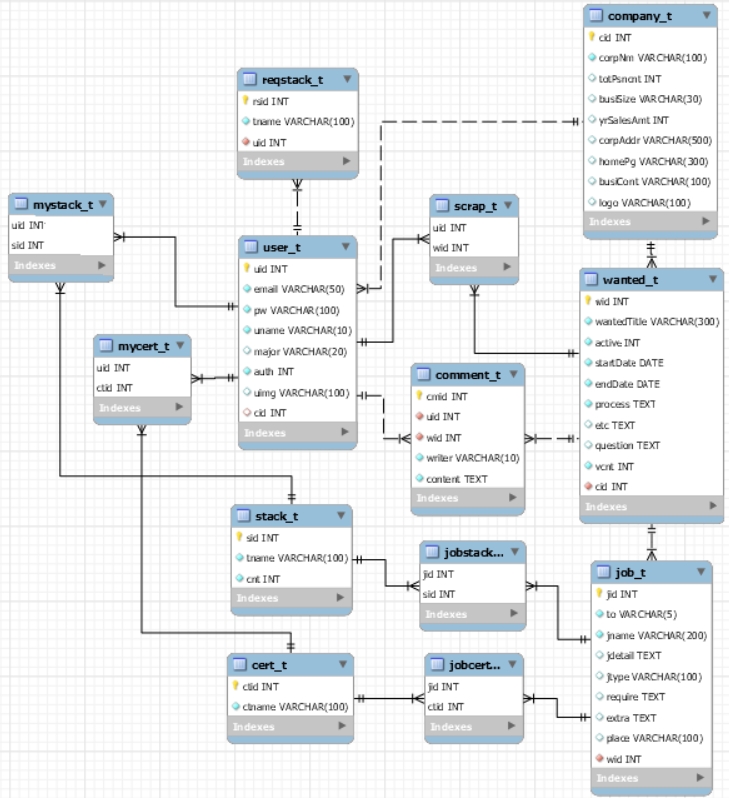
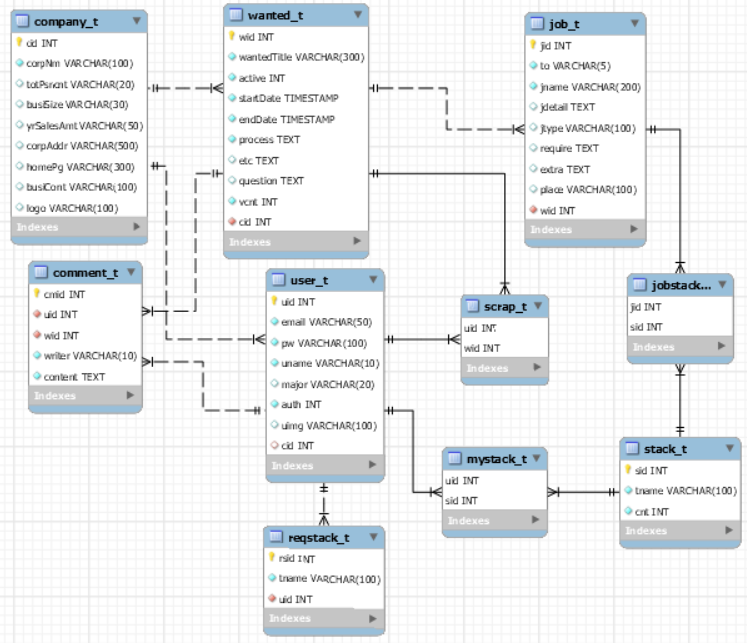
update README(Database) | update 공고상세보기

diff --git a/Backend/itda_test/src/main/java/com/ssafy/itda/itda_test/controller/WantedController.java b/Backend/itda_test/src/main/java/com/ssafy/itda/itda_test/controller/WantedController.java
@@ -54,14 +54,13 @@ public class WantedController {
 		logger.info("5-------------getWantedAll-----------------------------" + new Date());
 		Map<String, Object> resultMap = new HashMap<>();
 		String token = req.getHeader("jwt-auth-token");
-		if(token != null) {
+		if (token != null) {
 			resultMap.putAll(jwtService.get(req.getHeader("jwt-auth-token")));
 			int uid = (int) resultMap.get("uid");
 			List<Integer> widList = wantedService.getWantedAll();
 			List<WantedResult> wrlist = getWantedListFunction(widList, uid);
 			return new ResponseEntity<List<WantedResult>>(wrlist, HttpStatus.OK);
-		}
-		else {
+		} else {
 			List<Integer> widList = wantedService.getWantedAll();
 			List<WantedResult> wrlist = getWantedListFunction(widList);
 			return new ResponseEntity<List<WantedResult>>(wrlist, HttpStatus.OK);
@@ -70,20 +69,52 @@ public class WantedController {
 
 	@ApiOperation(value = " 공고 정보를 확인한다.", response = WantedResult.class)
 	@RequestMapping(value = "/getWantedByID/{wid}", method = RequestMethod.GET)
-	public ResponseEntity<WantedResult> getWantedByID(@PathVariable int wid) throws Exception {
+	public ResponseEntity<WantedResult> getWantedByID(@PathVariable int wid, HttpServletRequest req) throws Exception {
 		logger.info("5-------------getWantedByID-----------------------------" + new Date());
-		int cid = wantedService.getCompanyId(wid);
-		Company company = wantedService.getCompanyInfo(cid);
-		Wanted wanted = wantedService.getWantedInfo(wid);
-		List<Job> jobs = wantedService.getJobsInfo(wid);
+		Map<String, Object> resultMap = new HashMap<>();
+		String token = req.getHeader("jwt-auth-token");
 		WantedResult wr = new WantedResult();
-		wr.setCompany(company);
-		wr.setWanted(wanted);
-		wr.setJobs(jobs);
-		
-		//vcnt 조회수 update
+		if (token != null) {
+			resultMap.putAll(jwtService.get(req.getHeader("jwt-auth-token")));
+			int uid = (int) resultMap.get("uid");
+			int cid = wantedService.getCompanyId(wid);
+			Company company = wantedService.getCompanyInfo(cid);
+			Wanted wanted = wantedService.getWantedInfo(wid);
+			List<Job> jobs = wantedService.getJobsInfo(wid);
+			List<Stack> wantedStacks = wantedService.getWantedStackInfo(wid);
+			for (Job j : jobs) {
+				j.setStacks(wantedService.getStackInfo(j.getJid()));
+			}
+			Scrap model = new Scrap();
+			model.setUid(uid);
+			model.setWid(wid);
+			Scrap scrap = wantedService.isScraped(model);
+			wr.setCompany(company);
+			wr.setWanted(wanted);
+			wr.setJobs(jobs);
+			wr.setStacks(wantedStacks);
+			if (scrap == null) {
+				wr.setScrap(false);
+			} else {
+				wr.setScrap(true);
+			}
+		} else {
+			int cid = wantedService.getCompanyId(wid);
+			Company company = wantedService.getCompanyInfo(cid);
+			Wanted wanted = wantedService.getWantedInfo(wid);
+			List<Job> jobs = wantedService.getJobsInfo(wid);
+			List<Stack> wantedStacks = wantedService.getWantedStackInfo(wid);
+			for (Job j : jobs) {
+				j.setStacks(wantedService.getStackInfo(j.getJid()));
+			}
+			wr.setCompany(company);
+			wr.setWanted(wanted);
+			wr.setJobs(jobs);
+			wr.setStacks(wantedStacks);
+		}
+		// vcnt 조회수 update
 		wantedService.updateVcnt(wid);
-		
+
 		return new ResponseEntity<WantedResult>(wr, HttpStatus.OK);
 	}
 
@@ -93,14 +124,13 @@ public class WantedController {
 		logger.info("5-------------getWantedByRecent-----------------------------" + new Date());
 		Map<String, Object> resultMap = new HashMap<>();
 		String token = req.getHeader("jwt-auth-token");
-		if(token != null) {
+		if (token != null) {
 			resultMap.putAll(jwtService.get(req.getHeader("jwt-auth-token")));
 			int uid = (int) resultMap.get("uid");
 			List<Integer> widList = wantedService.getWantedByRecent();
 			List<WantedResult> wrlist = getWantedListFunction(widList, uid);
 			return new ResponseEntity<List<WantedResult>>(wrlist, HttpStatus.OK);
-		}
-		else {
+		} else {
 			List<Integer> widList = wantedService.getWantedByRecent();
 			List<WantedResult> wrlist = getWantedListFunction(widList);
 			return new ResponseEntity<List<WantedResult>>(wrlist, HttpStatus.OK);
@@ -113,14 +143,13 @@ public class WantedController {
 		logger.info("5-------------getWantedByCloseEnd-----------------------------" + new Date());
 		Map<String, Object> resultMap = new HashMap<>();
 		String token = req.getHeader("jwt-auth-token");
-		if(token != null) {
+		if (token != null) {
 			resultMap.putAll(jwtService.get(req.getHeader("jwt-auth-token")));
 			int uid = (int) resultMap.get("uid");
 			List<Integer> widList = wantedService.getWantedByCloseEnd();
 			List<WantedResult> wrlist = getWantedListFunction(widList, uid);
 			return new ResponseEntity<List<WantedResult>>(wrlist, HttpStatus.OK);
-		}
-		else {
+		} else {
 			List<Integer> widList = wantedService.getWantedByCloseEnd();
 			List<WantedResult> wrlist = getWantedListFunction(widList);
 			return new ResponseEntity<List<WantedResult>>(wrlist, HttpStatus.OK);
@@ -133,14 +162,13 @@ public class WantedController {
 		logger.info("5-------------getWantedByView-----------------------------" + new Date());
 		Map<String, Object> resultMap = new HashMap<>();
 		String token = req.getHeader("jwt-auth-token");
-		if(token != null) {
+		if (token != null) {
 			resultMap.putAll(jwtService.get(req.getHeader("jwt-auth-token")));
 			int uid = (int) resultMap.get("uid");
 			List<Integer> widList = wantedService.getWantedByView();
 			List<WantedResult> wrlist = getWantedListFunction(widList, uid);
 			return new ResponseEntity<List<WantedResult>>(wrlist, HttpStatus.OK);
-		}
-		else {
+		} else {
 			List<Integer> widList = wantedService.getWantedByView();
 			List<WantedResult> wrlist = getWantedListFunction(widList);
 			return new ResponseEntity<List<WantedResult>>(wrlist, HttpStatus.OK);
@@ -153,36 +181,34 @@ public class WantedController {
 		logger.info("5-------------getWantedByStack-----------------------------" + new Date());
 		Map<String, Object> resultMap = new HashMap<>();
 		String token = req.getHeader("jwt-auth-token");
-		if(token != null) {
+		if (token != null) {
 			resultMap.putAll(jwtService.get(req.getHeader("jwt-auth-token")));
 			int uid = (int) resultMap.get("uid");
 			List<Integer> widList = wantedService.getWantedByStack(uid);
 			List<WantedResult> wrlist = getWantedListFunction(widList, uid);
 			return new ResponseEntity<List<WantedResult>>(wrlist, HttpStatus.OK);
-		}
-		else {
+		} else {
 			return new ResponseEntity(HttpStatus.NO_CONTENT);
 		}
 	}
-	
+
 	@ApiOperation(value = "내 스크랩 공고에 맞는 공고 정보를 확인한다.", response = List.class)
 	@RequestMapping(value = "/getWantedByScrap", method = RequestMethod.GET)
 	public ResponseEntity<List<WantedResult>> getWantedByScrap(HttpServletRequest req) throws Exception {
 		logger.info("5-------------getWantedByScrap-----------------------------" + new Date());
 		Map<String, Object> resultMap = new HashMap<>();
 		String token = req.getHeader("jwt-auth-token");
-		if(token != null) {
+		if (token != null) {
 			resultMap.putAll(jwtService.get(req.getHeader("jwt-auth-token")));
 			int uid = (int) resultMap.get("uid");
 			List<Integer> widList = wantedService.getWantedByScrap(uid);
 			List<WantedResult> wrlist = getWantedListFunction(widList, uid);
 			return new ResponseEntity<List<WantedResult>>(wrlist, HttpStatus.OK);
-		}
-		else {
+		} else {
 			return new ResponseEntity(HttpStatus.NO_CONTENT);
 		}
 	}
-	
+
 	@ApiOperation(value = "사용자가 공고를 스크랩한다.", response = Result.class)
 	@RequestMapping(value = "/scrapWanted", method = RequestMethod.POST)
 	public ResponseEntity<Result> scrapWanted(@RequestBody Scrap model) throws Exception {
@@ -290,7 +316,7 @@ public class WantedController {
 		}
 		return wrlist;
 	}
-	
+
 	private List<WantedResult> getWantedListFunction(List<Integer> widList) {
 		List<WantedResult> wrlist = new ArrayList<>();
 		for (int i : widList) {

diff --git a/Database/README.md b/Database/README.md
@@ -3,9 +3,12 @@
 ## 준비사항
 
 1. DBMS
-   1. MySQL workbench 버전 #####
-
-
+   
+   1. MySQL workbench 버전 8.0.19
+   
+      - [MySQL 워크벤치 download](https://dev.mysql.com/downloads/file/?id=492814)
+   
+      - [설치 가이드](https://dog-developers.tistory.com/20)
 
 ## E - RD
 
@@ -98,23 +101,7 @@
   | uid      | integer | **(필수) **user_t의 Primary Key (uid) |
   | sid      | integer | **(필수)** stack_t의 Primary Key(sid) |
   
-* 자격증 정보 테이블 `cert_t`
-
-  
-  | 필드명 | 자료형  | 설명                 |
-  | ------ | ------- | -------------------- |
-  | ctid   | integer | Primary Key          |
-  | ctname | string  | **(필수)** 자격증 명 |
-
-* 내 자격증 정보 테이블 `myCert_t`   #### 삭제되었음!
-
-  | 필드명    | 자료형  | 설명                                  |
-  | --------- | ------- | ------------------------------------- |
-  | uid, ctid |         | Primary Key                           |
-  | uid       | integer | **(필수)** user_t의 Primary Key(uid)  |
-  | ctid      | integer | **(필수)** cert_t의 Primary Key(ctid) |
-
-* 직무 정보 테이블 `job_b`
+* 직무 정보 테이블 `job_t`
 
   | 필드명  | 자료형  | 설명                                   |
   | ------- | ------- | -------------------------------------- |
@@ -136,14 +123,6 @@
   | jid      | integer | **(필수) **job_t의 Primary Key(jid)   |
   | sid      | integer | **(필수) **stack_t의 Primary Key(sid) |
 
-* 직무 별 자격증 정보 테이블 `jobCert_t`
-
-  | 필드명    | 자료형  | 설명                                  |
-  | --------- | ------- | ------------------------------------- |
-  | jid, ctid |         | Primary Key                           |
-  | jid       | integer | **(필수) **job_t의 Primary Key(jid)   |
-  | ctid      | integer | **(필수) **cert_t의 Primary Key(ctid) |
-
 * 기술 스택 추가 요청 테이블 `reqStack_t`
 
   | 필드명 | 자료형  | 설명                                 |
@@ -151,6 +130,7 @@
   | rsid   | integer | Primary Key                          |
   | tname  | string  | **(필수) ** 기술 스택 명             |
   | uid    | integer | **(필수) **user_t의 Primary Key(uid) |
+
 
 
 ## sql
@@ -170,7 +150,7 @@ create table company_t(
 );
 -- corpNm : 회사명, totPsncnt : 근로자수, busiSize : 기업규모, yrSalesAmt : 연매출액, corpAddr : 회사 주소
 -- homePg : 회사 홈페이지, busiCont : 주요 사업내용, logo : 기업 로고
-
+
 -- 사용자 정보 테이블 정의
 create table user_t(
 	uid int primary key auto_increment,
@@ -185,14 +165,14 @@ create table user_t(
 );
 -- email : id 겸 이메일, pw : 패스워드 (sha1로 변환하여 저장)
 -- uname : 이름, major : 전공, auth : 회원 권한, uimg : 회원 사진
-
+
 -- 채용 공고 테이블 정의
 create table wanted_t(
 	wid int primary key auto_increment,
     wantedTitle varchar(300) not null,
     active int not null default 0,	-- 0 : 마감, 1 : 진행 중, 2: 오늘 마감, 3: 내일 마감
-    startDate date not null,
-    endDate date not null,
+    startDate timestamp not null,
+    endDate timestamp not null,
     process text not null,
     etc text,
     question text,
@@ -202,7 +182,7 @@ create table wanted_t(
 );
 -- wantedTitle : 공고 제목, active : 공고 진행 상태, startDate : 공고 시작일, endDate : 공고 마감일
 -- process : 채용 과정, etc : 기타 요구사항, question : 문의, vcnt : 공고 조회수
-
+
 -- 댓글 정보 테이블 정의
 create table comment_t(
 	cmid int primary key auto_increment,
@@ -215,7 +195,7 @@ create table comment_t(
 );
 -- 회원이나 공고가 변경되면 댓글도 해당 댓글도 변경되도록 on delete cascade, on update cascade 설정
 -- uid : fk user_t, wid : fk wanted_t, writer : 작성자 = uname, content : 댓글 내용
-
+
 -- 스크랩 정보 테이블 정의
 create table scrap_t(
 	uid int not null,
@@ -226,7 +206,7 @@ create table scrap_t(
 );
 -- 회원이나 공고가 변경되면 댓글도 해당 댓글도 변경되도록 on delete cascade, on update cascade 설정
 -- pk : (uid, wid), fk : uid, wid
-
+
 -- 기술 스택 테이블 정의
 create table stack_t(
 	sid int primary key auto_increment,
@@ -234,7 +214,7 @@ create table stack_t(
     cnt int not null default 0
 );
 -- tname : 기술 스택 명, cnt : 사용자가 선택한 수
-
+
 -- 내 스택 정보 테이블 정의
 create table myStack_t(
 	uid int not null,
@@ -244,23 +224,7 @@ create table myStack_t(
     foreign key(sid) references stack_t(sid) on delete cascade on update cascade
 );
 -- on delete cascade, on update cascade  / or  No action
-
--- 자격증 정보 테이블 정의
-create table cert_t(
-	ctid int primary key auto_increment,
-    ctname varchar(100) not null
-);
--- ctname : 자격증 명
-
--- 내 자격증 정보 테이블 정의
-create table myCert_t(
-	uid int not null,
-    ctid int not null,
-    primary key(uid, ctid),
-    foreign key(uid) references user_t(uid) on delete cascade on update cascade,
-    foreign key(ctid) references cert_t(ctid) on delete cascade on update cascade
-);
-
+
 -- 직무 정보 테이블 정의
 create table job_t(
 	jid int primary key auto_increment,
@@ -276,7 +240,7 @@ create table job_t(
 );
 -- jname : 직무 명, to : 모집인원, jdetail : 직무 상세, jtype : 고용형태 (계약직, 정규직, ...)
 -- require : 자격요건, extra : 우대사항, place : 근무지, wid : 공고 번호 fk
-
+
 -- 직무 별 기술 스택 정보 테이블 정의
 create table jobStack_t(
 	jid int not null,
@@ -285,16 +249,7 @@ create table jobStack_t(
     foreign key(jid) references job_t(jid) on delete cascade on update cascade,
     foreign key(sid) references stack_t(sid) on delete cascade on update cascade
 );
-
--- 직무 별 자격증 정보 테이블 정의
-create table jobCert_t(
-	jid int not null,
-    ctid int not null,
-    primary key(jid, ctid),
-    foreign key(jid) references job_t(jid) on delete cascade on update cascade,
-    foreign key(ctid) references cert_t(ctid) on delete cascade on update cascade
-);
-
+
 -- 기술 스택 추가 요청 테이블 정의
 create table reqStack_t(
 	rsid int primary key auto_increment,
